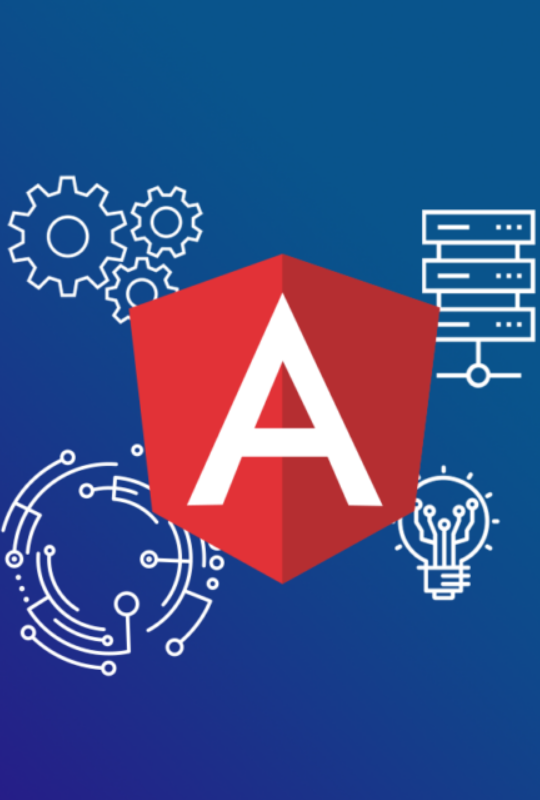
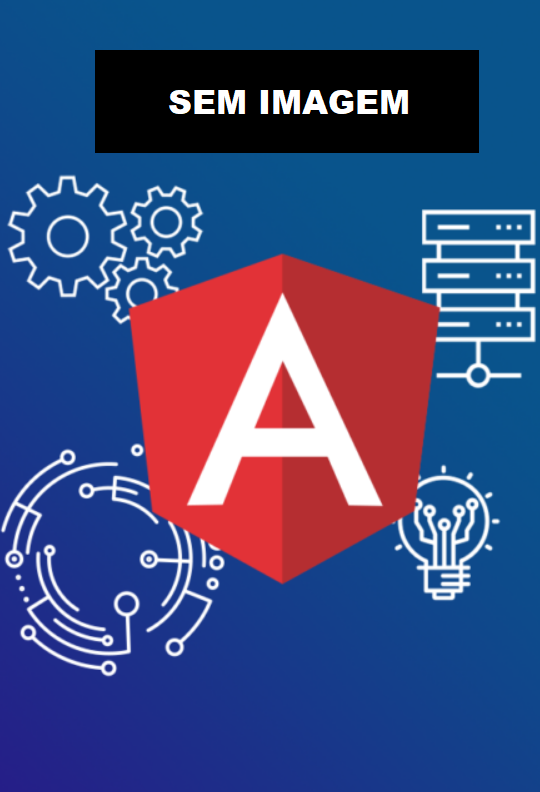
Filtragem finalizada e visualização de informações ajustada

diff --git a/src/app/movie/list-movies/list-movies.component.html b/src/app/movie/list-movies/list-movies.component.html
@@ -5,44 +5,54 @@
   </mat-toolbar>
 </header>
 
-<main class="main-div" infiniteScroll (scrolled)="onScroll()" >
-
+<main class="main-div" infiniteScroll (scrolled)="onScroll()">  
+  
   <mat-card class="width100" >
     <form autocomplete="off" novalidate [formGroup]="filtro">
       <mat-card-content class="filter-form">
           <app-input-text class="width40" controlName="text" title="Pesquise aqui" [formGroup]="filtro"></app-input-text>
           <app-input-select class="width40" controlName="genre" title="Gênero" [options]="generos" [formGroup]="filtro"></app-input-select>
       </mat-card-content>
+     <mat-card-subtitle> <a href="http://">Limpar filtros</a></mat-card-subtitle>
     </form>
   </mat-card>
-    
-  <mat-card class="movie-card" *ngFor="let filme of filmes">
-    <mat-card-content>
-      <img mat-card-image [src]="filme.urlImg" alt="Poster do filme">
-        <p>
-          <mat-icon>star</mat-icon>
-          {{filme?.IMDbRating}}
-        </p>
-        <p class="titleMovie">{{filme?.title}}</p>
-    </mat-card-content>
-    <mat-card-actions>
-      <button mat-stroked-button style="color: rgb(64, 163, 230)">ABRIR</button>
-      <div>
-        <button class="info_button" mat-icon-button aria-label="Descrição"  [matMenuTriggerFor]="infos">
-          <mat-icon>info</mat-icon>
-        </button>
-        <a class="link_button" mat-icon-button aria-label="Link do filme no IMDb" [href]="filme?.urlIMDb" target="_blank">
-          <mat-icon>open_in_new</mat-icon>
-        </a>
-      </div>
-    </mat-card-actions>
-    <mat-menu #infos="matMenu" >
-      <div class="infos">
-        <p class="titleMovie">{{filme?.title}}</p>
-        <p>Data de Lançamento: {{filme?.releaseDate}}</p>
-        <p>Gênero: {{filme?.genre}}</p>
-      </div>
-    </mat-menu>
-  </mat-card>
+
+  <h4 *ngIf="!filmes.length" class="menssagem">Nenhum registro encontrado</h4>
   
+  <mat-card class="movie-card" *ngFor="let filme of filmes" >
+      <mat-card-content>
+        <img mat-card-image [src]="filme.urlImg || semFoto" alt="Poster do filme">
+          <p>
+            <mat-icon>star</mat-icon>
+            {{filme.IMDbRating}}
+          </p>
+          <p class="titleMovie">{{filme.title}}</p>
+      </mat-card-content>
+      <mat-card-actions>
+        <button mat-stroked-button style="color: rgb(64, 163, 230)" (click)="abrir(filme.id)">ABRIR</button>
+        <div>
+          <button class="info_button" mat-icon-button aria-label="Informações"  [matMenuTriggerFor]="infos">
+            <mat-icon>info</mat-icon>
+          </button>
+          <a class="link_button" mat-icon-button aria-label="Link do filme no IMDb" [href]="filme?.urlIMDb" target="_blank">
+            <mat-icon>open_in_new</mat-icon>
+          </a>
+        </div>
+      </mat-card-actions>
+      <mat-menu #infos="matMenu" >
+        <div class="infos">
+          <mat-card>
+            <mat-card-header>
+              <mat-card-title>{{filme.title}}</mat-card-title>
+            </mat-card-header>
+            <mat-card-content>
+              <mat-card-subtitle *ngIf="filme.description">Descrição: </mat-card-subtitle>
+              <p>{{filme.description}}</p>
+            </mat-card-content>
+            <mat-card-subtitle>Data de Lançamento: {{filme.releaseDate}}</mat-card-subtitle>
+            <mat-card-subtitle>Gênero: {{filme.genre}}</mat-card-subtitle>
+          </mat-card>
+        </div>
+      </mat-menu>
+  </mat-card>
 </main>

diff --git a/src/app/movie/list-movies/list-movies.component.ts b/src/app/movie/list-movies/list-movies.component.ts
@@ -1,8 +1,9 @@
 import { Component, Input, OnInit } from '@angular/core';
 import { FormBuilder, FormGroup } from '@angular/forms';
+import { ConfigParams } from 'src/app/shared/models/config-params';
 import { MoviesService } from 'src/app/core/movies.service';
 import { Movie } from 'src/app/shared/models/movie';
-
+import { Router } from '@angular/router';
 
 @Component({
   selector: 'app-list-movies',
@@ -11,34 +12,47 @@ import { Movie } from 'src/app/shared/models/movie';
 })
 export class ListMoviesComponent implements OnInit {
 
-  public pagina=0;
+  config: ConfigParams = {
+    pagina: 0,
+    limite: 6,
+    pesquisa: '',
+    campo:{
+      tipo: 'genre',
+      valor: ''
+    }
+  };
+
   readonly qtdPagina = 6;
   filmes: Movie[] = [];
-  texto: string;
-  genero: string;
 
   filtro: FormGroup;
   @Input() generos: string[];
-  
+
+  readonly semFoto = '../../assets/images/filme.PNG'; 
 
   constructor(private serviceFilmes: MoviesService, 
-              private fb: FormBuilder) { }
+              private fb: FormBuilder,
+              private router: Router) { }
   
 
   ngOnInit(): void {
-    this.generos = ['Ação', 'Romance', 'Aventura', 'Terror', 'Ficção cientifica', 'Comédia', 'Aventura', 'Drama'];
+    this.generos = ['Todos','Ação', 'Romance', 'Aventura', 'Terror', 'Ficção cientifica', 'Comédia', 'Drama'];
     this.filtro = this.fb.group({
       text: [''],
-      genre: ['']
+      genre: ['Todos']
     });
 
     this.filtro.get('text').valueChanges.subscribe((val: string) => {
-      this.texto = val;
+      this.config.pesquisa = val;
       this.resetarConsulta();
     });
 
     this.filtro.get('genre').valueChanges.subscribe((val: string) => {
-      this.genero = val;
+      if(val === 'Todos'){
+        val = undefined;
+      };
+
+      this.config.campo.valor = val;
       this.resetarConsulta();
     });
 
@@ -46,19 +60,23 @@ export class ListMoviesComponent implements OnInit {
     
   }
 
-  private resetarConsulta(){
-    this.pagina = 0;
+  private resetarConsulta(): void{
+    this.config.pagina = 0;
     this.filmes = [];
     this.listarFilmes();
   }
 
   private listarFilmes(): void {
-    this.pagina++;
-    this.serviceFilmes.listar(this.pagina, this.qtdPagina, this.texto, this.genero)
+    this.config.pagina++;
+    this.serviceFilmes.listar(this.config)
     .subscribe( (filmes: Movie[]) => this.filmes.push(...filmes));
   }
 
   onScroll(): void{
     this.listarFilmes();
+  }
+
+  private abrir(id: number): void{
+    
   }
 }

diff --git a/src/app/core/movies.service.ts b/src/app/core/movies.service.ts
@@ -1,8 +1,9 @@
-import { HttpClient, HttpParams } from "@angular/common/http";
+import { HttpClient } from "@angular/common/http";
 import { Injectable } from "@angular/core";
 import { Observable } from "rxjs";
-import { __param } from "tslib";
+import { ConfigParams } from "../shared/models/config-params";
 import { Movie } from "../shared/models/movie";
+import { ConfigParamsService } from "./config-params.service";
 
 
 const url = "http://localhost:3000/filmes/";
@@ -18,29 +19,10 @@ export class MoviesService{
         return this.httpClient.post<Movie>(url, filme);
       }
 
-    listar(pagina: number, qtdPagina: number, texto?: string, genero?: string): Observable<Movie[]> {
+    listar(config: ConfigParams): Observable<Movie[]> {
 
-        if(texto && genero){
-            return this.httpClient.get<Movie[]>(url, {params: { ['_page']: pagina.toString(), 
-                                                                ['_limit']: qtdPagina.toString(),                                                           
-                                                                ['q']: texto,
-                                                                ['genre']: genero } } );
-        }
-
-        else if(texto){
-            return this.httpClient.get<Movie[]>(url, {params: { ['_page']: pagina.toString(), 
-                                                                ['_limit']: qtdPagina.toString(),                                                           
-                                                                ['q']: texto } } );
-        }
-        else if(genero){
-            return this.httpClient.get<Movie[]>(url, {params: { ['_page']: pagina.toString(), 
-                                                                ['_limit']: qtdPagina.toString(),                                                                                                                   
-                                                                ['genre']: genero } } );
-        }
-        else{
-            return this.httpClient.get<Movie[]>(url, {params: { ['_page']: pagina.toString(), 
-                                                                ['_limit']: qtdPagina.toString()} } );
-        }
+        let configP = new ConfigParamsService();
+        return this.httpClient.get<Movie[]>(url, {params: configP.configParams(config)});
         
     }
     

diff --git a/src/app/core/config-params.service.ts b/src/app/core/config-params.service.ts
@@ -1,0 +1,37 @@
+import { HttpParams } from "@angular/common/http";
+import { Injectable } from "@angular/core";
+import { CampoGenerico } from "../shared/models/campo-generico";
+import { ConfigParams } from "../shared/models/config-params";
+
+@Injectable({
+    providedIn: 'root'
+})
+export class ConfigParamsService{
+
+    public configParams(config: ConfigParams): HttpParams {
+        let httpParams = new HttpParams();
+
+        if(config.pagina){
+            httpParams = httpParams.set('_page', config.pagina.toString());
+        }
+
+        if(config.limite){
+            httpParams = httpParams.set('_limit', config.limite.toString());
+        }
+
+        if(config.pesquisa){
+            httpParams = httpParams.set('q', config.pesquisa);
+        }
+
+        if(config.campo.valor){
+            httpParams = httpParams.set(config.campo.tipo, config.campo.valor);
+        }
+
+        httpParams = httpParams.set('_sort', 'id');
+        httpParams = httpParams.set('_order', 'desc');
+
+        return httpParams;
+
+    }
+
+} 

diff --git a/src/app/movie/list-movies/list-movies.component.scss b/src/app/movie/list-movies/list-movies.component.scss
@@ -6,8 +6,7 @@ mat-toolbar{
 .main-div{
     background-color: #424242;
     flex-wrap: wrap;
-    justify-content: space-around space-between center;
-    min-height: 100%;
+    min-height: 100vh;
     padding: 1vw;
 }
 
@@ -58,10 +57,17 @@ p > mat-icon{
 
 .width100{
     border-radius: 0%;
-    
+    height: 120px;
+    align-self: start;
 }
 
 .width40{
     width: 100%;
     padding: 10px;
+}
+
+.menssagem{
+    color: white;
+    margin: 0 auto;
+    align-self: start;
 }

diff --git a/src/app/movie/register-movies/register-movies.component.ts b/src/app/movie/register-movies/register-movies.component.ts
@@ -51,9 +51,6 @@ export class RegisterMoviesComponent implements OnInit {
   }
 
   private salvarFilme(filme: Movie): void{
-    if(filme.urlImg == ''){
-      filme.urlImg = '../../assets/images/filme.PNG';
-    }
     this.filmesService.salvar(filme).subscribe( () => {
       const config = {
         data: {

diff --git a/src/app/movie/movies.module.ts b/src/app/movie/movies.module.ts
@@ -11,7 +11,7 @@ import { RegisterMoviesComponent } from "./register-movies/register-movies.compo
     declarations: [
         RegisterMoviesComponent,
         ListMoviesComponent
-    ],
+        ],
     imports: [
         CommonModule,
         DemoMaterialModule,

diff --git a/src/app/shared/models/config-params.ts b/src/app/shared/models/config-params.ts
@@ -1,6 +1,6 @@
 import { CampoGenerico } from './campo-generico';
 
-export interface ConfigParms {
+export interface ConfigParams {
   pagina?: number;
   limite?: number;
   pesquisa?: string;
